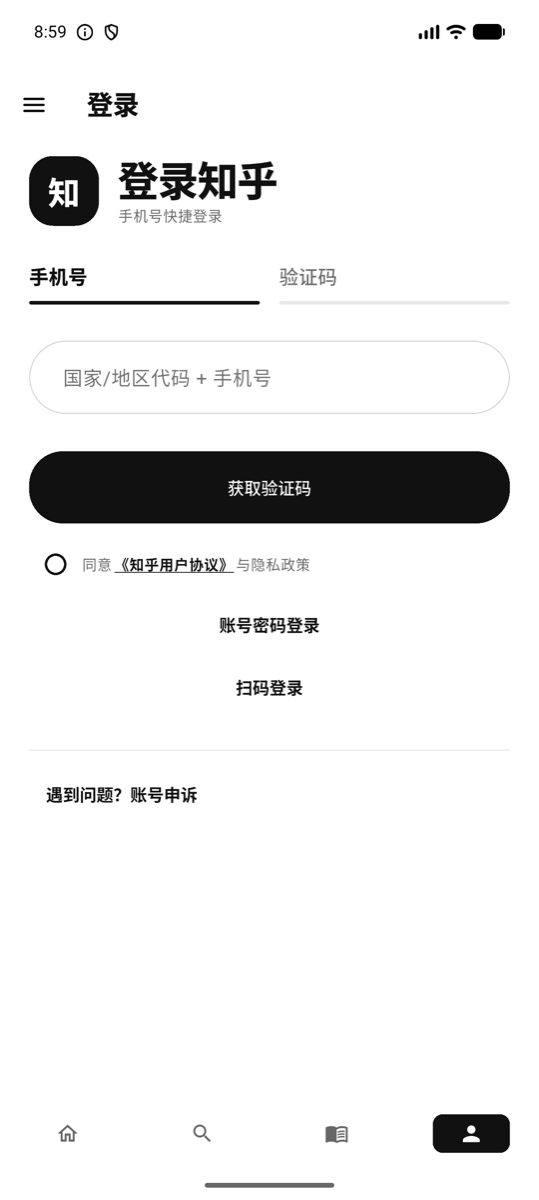
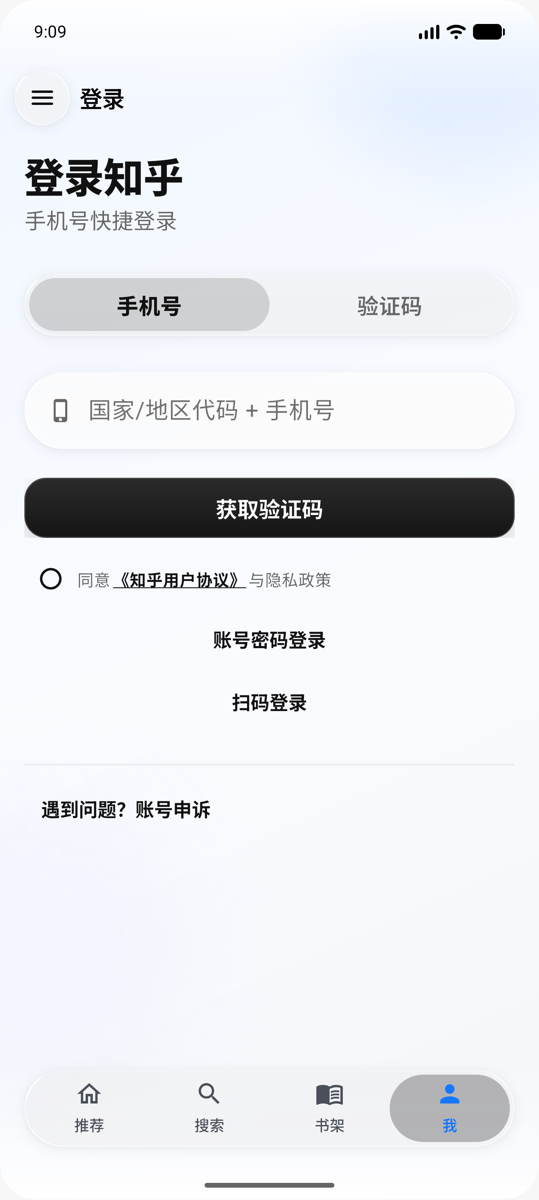
更新项目界面截图

diff --git a/README.md b/README.md
@@ -13,16 +13,9 @@
 以下截图来自 Android 手机模拟器，未包含登录凭据、手机号或账号资料。
 
 <p align="center">
-  <img src="docs/recommend.png" width="30%" alt="推荐页面">
-  <img src="docs/answer.png" width="30%" alt="回答阅读页面">
-  <img src="docs/story.png" width="30%" alt="故事与盐选榜单">
-</p>
-
-<p align="center">
-  <img src="docs/novel-detail.png" width="23%" alt="长篇小说详情与目录">
-  <img src="docs/novel-reader.png" width="23%" alt="小说阅读器">
-  <img src="docs/search.png" width="23%" alt="搜索页面">
-  <img src="docs/login.png" width="23%" alt="登录页面">
+  <img src="docs/story.png" width="30%" alt="故事榜单">
+  <img src="docs/search.png" width="30%" alt="搜索页面">
+  <img src="docs/login.png" width="30%" alt="登录页面">
 </p>
 
 ## 主要功能
